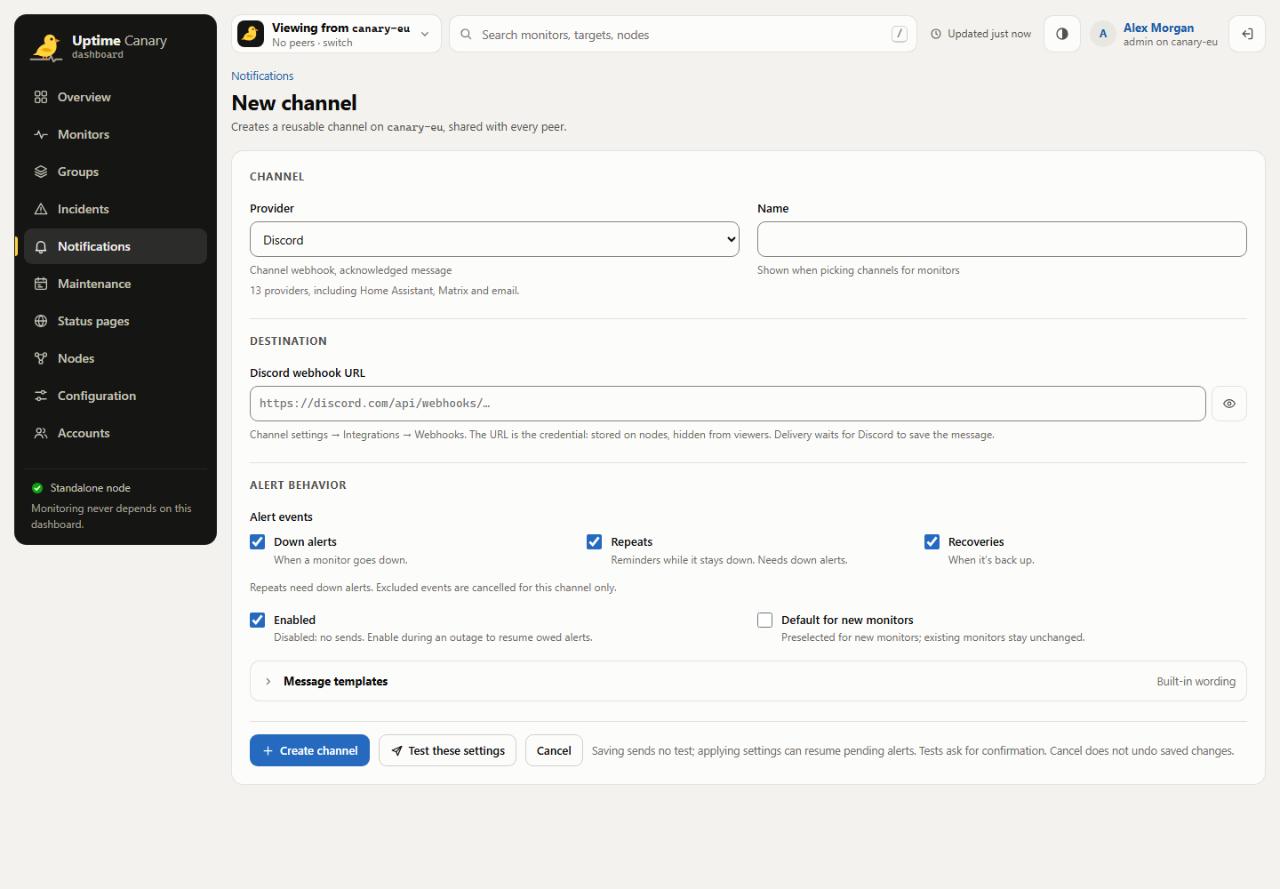
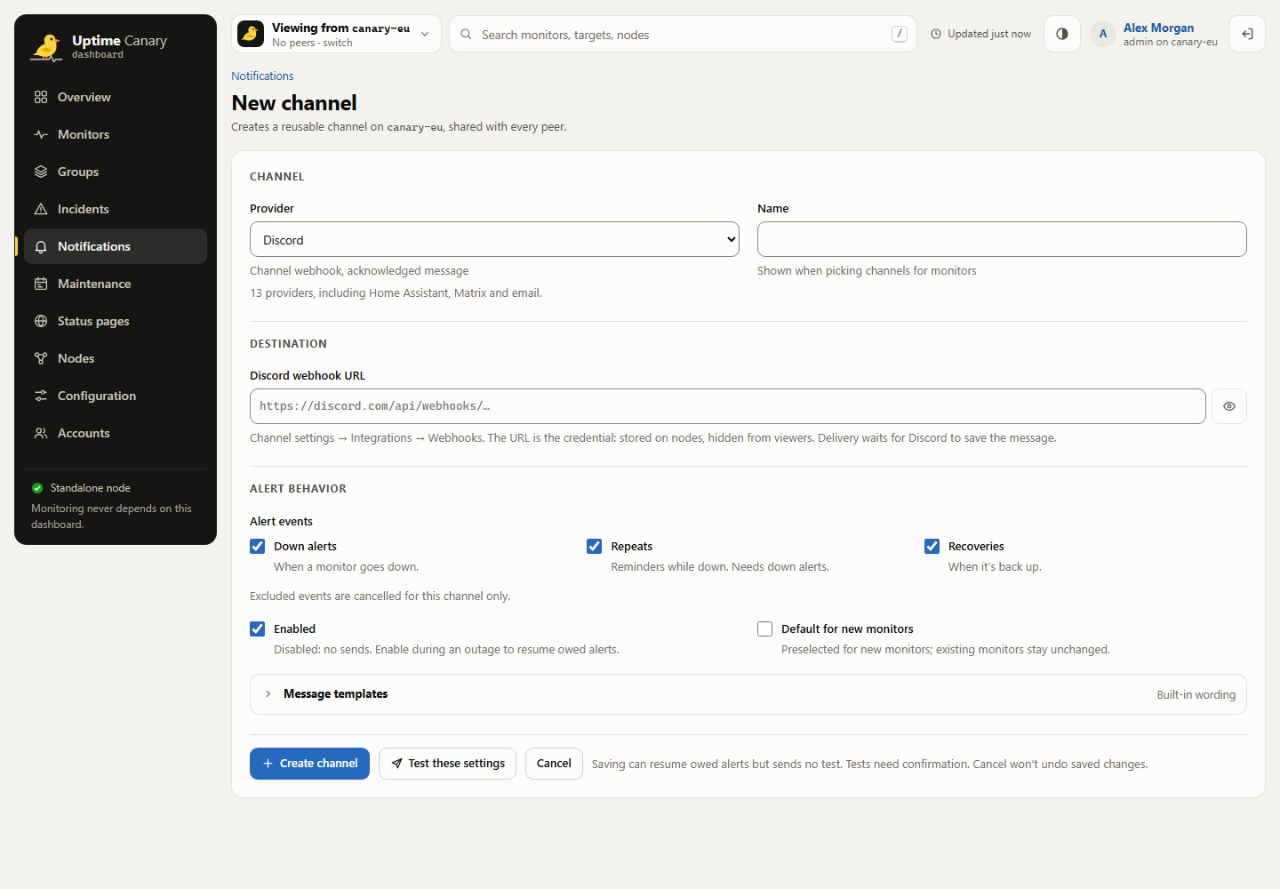
Refresh approved notification UI evidence

diff --git a/docs/channel-ui-review.md b/docs/channel-ui-review.md
@@ -1,8 +1,8 @@
 # Notification channel UI evidence
 
-Channel management now puts destinations and primary actions first. Setup follows provider, destination, then alert behavior. Tests identify the destination before sending, and interrupted submissions lead to inspection while preserving unsaved settings.
+Channel management puts destinations and primary actions first. Setup follows provider, destination, then alert behavior. Tests identify the destination before sending, and interrupted submissions lead to inspection while preserving unsaved settings.
 
-These screenshots show the actual React/CSS with a private in-memory API and simulated data. Desktop captures use 1440 x 1000; mobile captures use 390 x 844. Credentials are masked. No Go process, application database, or external notification was used for these captures.
+These screenshots show actual React/CSS with a private in-memory API and simulated data. Desktop viewports are 1440 x 1000 and mobile viewports 390 x 844; the screenshot tool scales some PNGs. Credentials are masked. No Go process, application database, or external notification was used for these captures.
 
 | Flow | Before | Current |
 | --- | --- | --- |
@@ -10,8 +10,10 @@ These screenshots show the actual React/CSS with a private in-memory API and sim
 | Manage channels, mobile | ![Original delivery explanations before channels](assets/channel-ui-before-list-mobile.png) | ![Channels and actions near the top](assets/channel-ui-after-list-mobile.png) |
 | Home Assistant setup, mobile | ![Original fragmented automation warning](assets/channel-ui-before-warning-mobile.png) | ![Readable automation warning and disclosed reference details](assets/channel-ui-after-warning-mobile.png) |
 
-The before captures use commit `cc0e7d5bcda2e070cdc39259b00db3c37e3e8531`. Current captures use product commit `73ef734a6c4389e6d18dd68db46c57559d490b33`. The full local review set contains 59 current screens covering both themes, validation, mixed recipient outcomes, failed reads, uncertain mutations, and draft retention. Its manifest records hashes for all images and eight product source files.
[1 lines of base64/hex data omitted]
 
-Observed local checks: workspace types, 47 focused automation contracts, and 28 web-image pure suites pass. Browser measurements confirm 44px mobile segmented controls and delivery filters. Recorded interactions cover precise error targeting, retained outcomes, save readback, and the rejected-sign-in Leave/Keep/Discard flow. Segmented help associations are verified programmatically.
+Three independent GPT-6.1 Sol reviewers on xhigh each scored this current notification UI **9/10** and approved the source in round 23. They inspected all 72 current and eight original images, verified provenance, and were blinded to other scores, prior ratings and the requested threshold. Opus reviews were waived by the user. Full review history is recorded in [PR #34](https://github.com/Narehood/Uptime-Canary/pull/34).
 
-Hosted Linux Go/Chrome execution and the native recipient-order regression are pending at publication. These captures and component checks do not establish provider delivery, complete pointer or screen-reader coverage, or complete Go/SQLite HA release validation.
+Observed local checks: workspace types, 47 focused automation contract groups, and 28 web-image pure suites pass at the captured source fingerprint. DOM measurements confirm 44px mobile segmented controls, delivery filters and primary notification actions. Recorded interactions cover precise error targeting, retained outcomes, guarded history/context changes, save readback, and rejected-sign-in Leave/Keep/Discard. Pristine forms and successful latest-settings recovery have no error summary; genuine failures retain focused summaries. All captured pages fit their viewport horizontally.
+
+Hosted Linux Go/Chrome, native Go and container execution evidence is recorded against the relevant commits in [PR #34](https://github.com/Narehood/Uptime-Canary/pull/34). Results from an earlier commit do not validate a later head. Frontend captures and component checks do not establish real provider delivery, complete pointer or screen-reader coverage, OS unload-dialog behavior, control-plane rejected-authentication runtime behavior, or complete Go/SQLite HA release validation.
